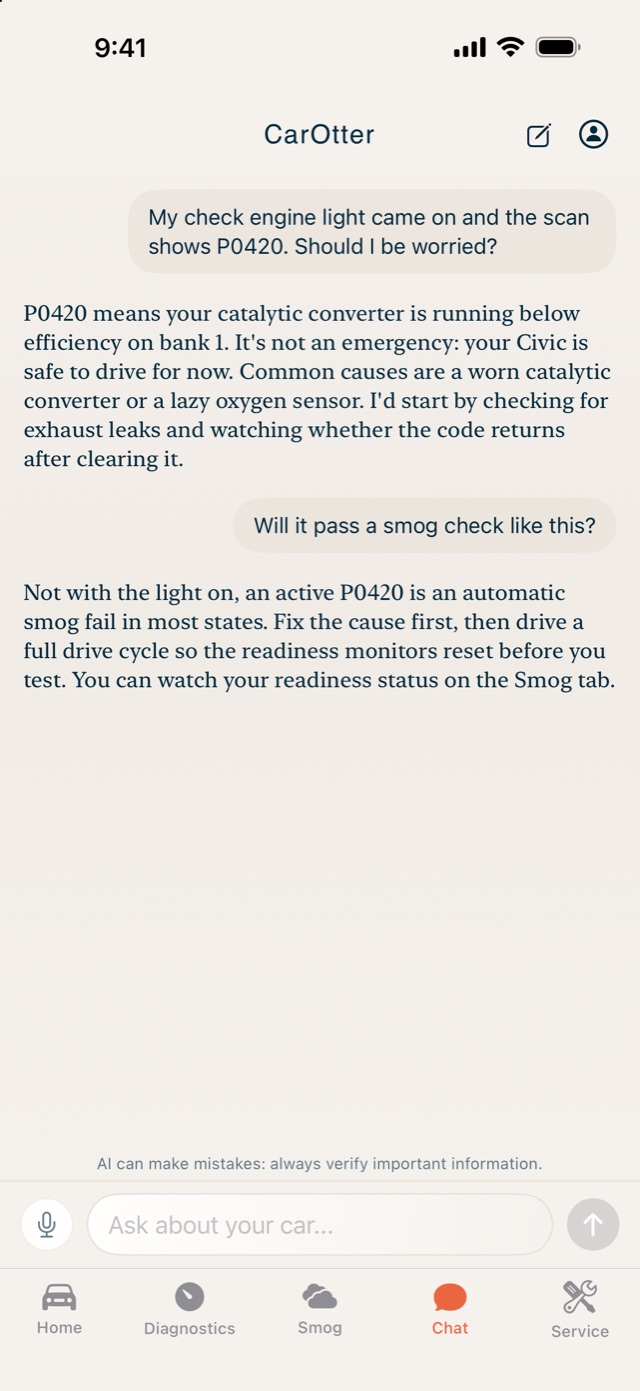
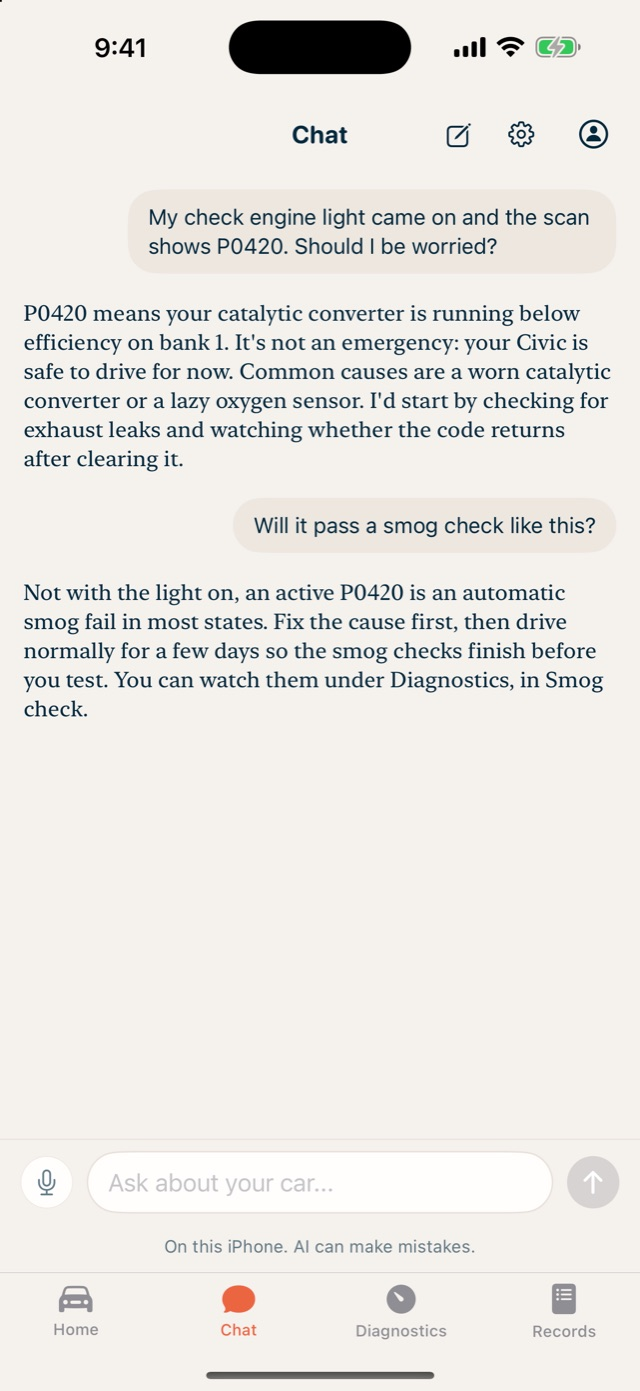
Screens and copy from the CarOtter 1.3 build 48 redesign
Four tabs (Home, Chat, Diagnostics, Records); smog check inside Diagnostics;
fill-ups inside Records; trouble codes first with a drivability verdict.

diff --git a/docs/index.html b/docs/index.html
@@ -234,11 +234,11 @@
                 </div>
 
                 <div class="screen">
-                    <div class="phone reveal"><img src="assets/screens/03-diagnostics.jpg" alt="Diagnostics: connection status and saved readings" loading="lazy" width="640" height="1391"></div>
+                    <div class="phone reveal"><img src="assets/screens/03-diagnostics.jpg" alt="Diagnostics: connection status, health summary and readings" loading="lazy" width="640" height="1391"></div>
                     <div class="copy reveal quiet">
                         <div class="kicker">Diagnostics</div>
                         <h3>Plug into the OBD port. Your car, decoded.</h3>
-                        <p>Any ELM327-style Bluetooth adapter will do. Live gauges you can arrange, trouble codes explained in plain words, and trends over every drive.</p>
+                        <p>Any ELM327-style Bluetooth adapter will do. Trouble codes first, each with whether it is safe to drive, then live readings you can arrange, and trends over every drive.</p>
                         <ul><li>45+ readings, from RPM to coolant temperature</li><li>Readings are saved, so the last drive is there without the adapter</li></ul>
                     </div>
                 </div>
@@ -248,7 +248,7 @@
                     <div class="copy reveal quiet">
                         <div class="kicker">Smog</div>
                         <h3>Know you'll pass smog before you pay for the test</h3>
-                        <p>Every readiness monitor, checked. See what's still pending, what a full drive cycle will clear, and whether the car is ready today.</p>
+                        <p>Every smog check your car runs on itself, in one list. See which are still in progress and whether the car is ready today, right inside Diagnostics.</p>
                     </div>
                 </div>
 
@@ -257,7 +257,7 @@
                     <div class="copy reveal quiet">
                         <div class="kicker">Home</div>
                         <h3>Your whole car, at a glance</h3>
-                        <p>Health, fuel and maintenance on one screen, with whatever needs attention first. More than one car? Each gets its own garage.</p>
+                        <p>What needs attention first, then health, fuel and service at a glance. More than one car? Each gets its own garage.</p>
                     </div>
                 </div>
 
@@ -275,7 +275,7 @@
                     <div class="copy reveal quiet">
                         <div class="kicker">Service</div>
                         <h3>Service history that never forgets</h3>
-                        <p>Visits, cost and mileage in one place, with a nudge when the next one is due. Scan a service document and the details are pulled out for you.</p>
+                        <p>Visits and fill-ups in one Records tab, with a nudge when the next service is due. Scan a receipt or invoice and the details are pulled out for you.</p>
                     </div>
                 </div>
             </div>
